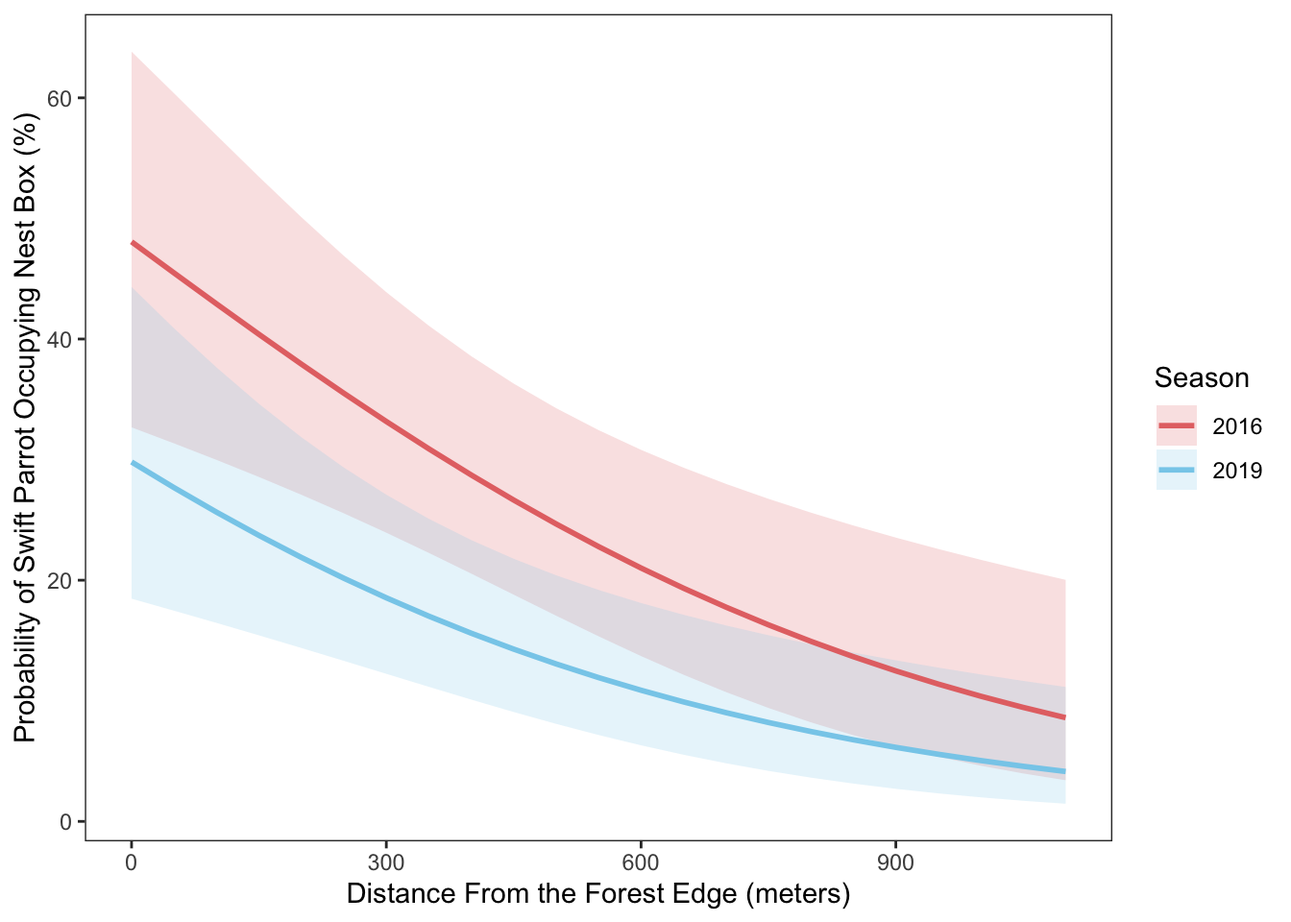
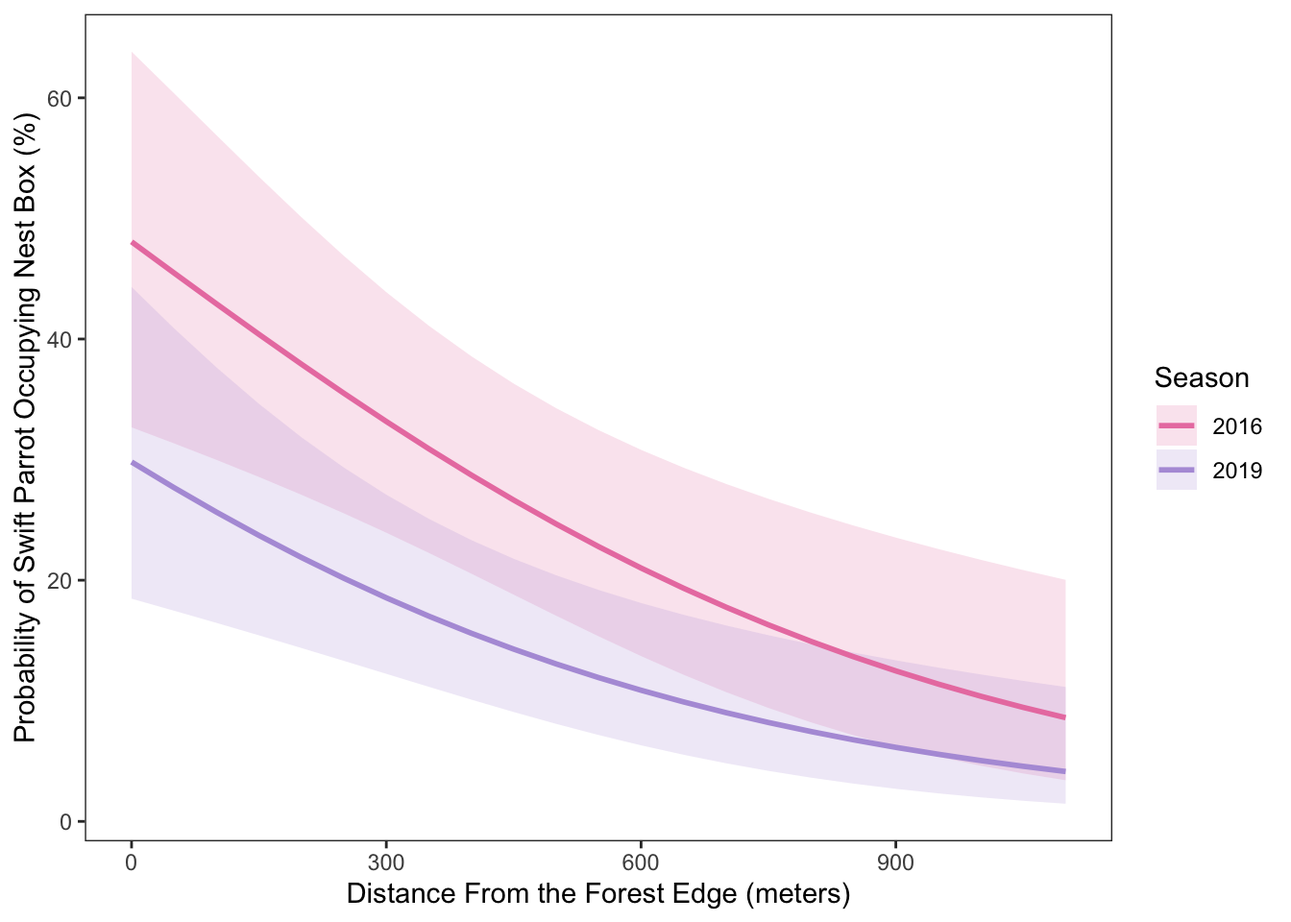
final tweaks. this should be close to the final product.

diff --git a/Code/Final.html b/Code/Final.html
@@ -6,7 +6,7 @@
 
 <meta name="viewport" content="width=device-width, initial-scale=1.0, user-scalable=yes">
 
-<meta name="dcterms.date" content="2025-06-09">
+<meta name="dcterms.date" content="2025-06-11">
 
 <title>Final Assignment</title>
 <style>
@@ -102,7 +102,7 @@ pre > code.sourceCode > span > a:first-child::before { text-decoration: underlin
     <div>
     <div class="quarto-title-meta-heading">Published</div>
     <div class="quarto-title-meta-contents">
-      <p class="date">June 9, 2025</p>
+      <p class="date">June 11, 2025</p>
     </div>
   </div>
   
@@ -116,19 +116,17 @@ pre > code.sourceCode > span > a:first-child::before { text-decoration: underlin
 
 <p>https://github.com/liamgilson18/ENVS-193DS_spring-2025_final</p>
 <div class="cell">
-<div class="sourceCode cell-code" id="cb1"><pre class="sourceCode r code-with-copy"><code class="sourceCode r"><span id="cb1-1"><a href="#cb1-1" aria-hidden="true" tabindex="-1"></a><span class="co">#read in code chunk</span></span>
-<span id="cb1-2"><a href="#cb1-2" aria-hidden="true" tabindex="-1"></a></span>
-<span id="cb1-3"><a href="#cb1-3" aria-hidden="true" tabindex="-1"></a><span class="fu">library</span>(tidyverse) <span class="co">#load in tidyverse</span></span>
-<span id="cb1-4"><a href="#cb1-4" aria-hidden="true" tabindex="-1"></a><span class="fu">library</span>(dplyr)    <span class="co"># load in dplyr</span></span>
-<span id="cb1-5"><a href="#cb1-5" aria-hidden="true" tabindex="-1"></a><span class="fu">library</span>(lubridate)  <span class="co">#load in lubridate</span></span>
-<span id="cb1-6"><a href="#cb1-6" aria-hidden="true" tabindex="-1"></a><span class="fu">library</span>(forcats)  <span class="co"># load in forcats</span></span>
-<span id="cb1-7"><a href="#cb1-7" aria-hidden="true" tabindex="-1"></a><span class="fu">library</span>(tibble)   <span class="co"># load in tibble</span></span>
-<span id="cb1-8"><a href="#cb1-8" aria-hidden="true" tabindex="-1"></a><span class="fu">library</span>(DHARMa)</span>
-<span id="cb1-9"><a href="#cb1-9" aria-hidden="true" tabindex="-1"></a><span class="fu">library</span>(MuMIn)</span>
-<span id="cb1-10"><a href="#cb1-10" aria-hidden="true" tabindex="-1"></a><span class="fu">library</span>(ggeffects)</span>
-<span id="cb1-11"><a href="#cb1-11" aria-hidden="true" tabindex="-1"></a><span class="fu">library</span>(janitor)</span>
-<span id="cb1-12"><a href="#cb1-12" aria-hidden="true" tabindex="-1"></a>sst <span class="ot">&lt;-</span> <span class="fu">read.csv</span>(here<span class="sc">::</span><span class="fu">here</span>(<span class="st">"data"</span>, <span class="st">"SST_update2023.csv"</span>)) <span class="co">#create object sst from data, problem 2</span></span>
-<span id="cb1-13"><a href="#cb1-13" aria-hidden="true" tabindex="-1"></a>nested_boxes <span class="ot">&lt;-</span> <span class="fu">read.csv</span>(here<span class="sc">::</span><span class="fu">here</span>(<span class="st">"data"</span>, <span class="st">"occdist.csv"</span>))</span></code><button title="Copy to Clipboard" class="code-copy-button"><i class="bi"></i></button></pre></div>
+<div class="sourceCode cell-code" id="cb1"><pre class="sourceCode r code-with-copy"><code class="sourceCode r"><span id="cb1-1"><a href="#cb1-1" aria-hidden="true" tabindex="-1"></a><span class="fu">library</span>(tidyverse) <span class="co">#load in tidyverse</span></span>
+<span id="cb1-2"><a href="#cb1-2" aria-hidden="true" tabindex="-1"></a><span class="fu">library</span>(dplyr)    <span class="co"># load in dplyr</span></span>
+<span id="cb1-3"><a href="#cb1-3" aria-hidden="true" tabindex="-1"></a><span class="fu">library</span>(lubridate)  <span class="co">#load in lubridate</span></span>
+<span id="cb1-4"><a href="#cb1-4" aria-hidden="true" tabindex="-1"></a><span class="fu">library</span>(forcats)  <span class="co"># load in forcats</span></span>
+<span id="cb1-5"><a href="#cb1-5" aria-hidden="true" tabindex="-1"></a><span class="fu">library</span>(tibble)   <span class="co"># load in tibble</span></span>
+<span id="cb1-6"><a href="#cb1-6" aria-hidden="true" tabindex="-1"></a><span class="fu">library</span>(DHARMa) <span class="co">#load in DHARMa</span></span>
+<span id="cb1-7"><a href="#cb1-7" aria-hidden="true" tabindex="-1"></a><span class="fu">library</span>(MuMIn) <span class="co">#load in MuMIn</span></span>
+<span id="cb1-8"><a href="#cb1-8" aria-hidden="true" tabindex="-1"></a><span class="fu">library</span>(ggeffects) <span class="co">#load in ggeffects</span></span>
+<span id="cb1-9"><a href="#cb1-9" aria-hidden="true" tabindex="-1"></a><span class="fu">library</span>(janitor) <span class="co">#load in janitor</span></span>
+<span id="cb1-10"><a href="#cb1-10" aria-hidden="true" tabindex="-1"></a>sst <span class="ot">&lt;-</span> <span class="fu">read.csv</span>(here<span class="sc">::</span><span class="fu">here</span>(<span class="st">"data"</span>, <span class="st">"SST_update2023.csv"</span>)) <span class="co">#create initial object sst from data, problem 2</span></span>
+<span id="cb1-11"><a href="#cb1-11" aria-hidden="true" tabindex="-1"></a>nested_boxes <span class="ot">&lt;-</span> <span class="fu">read.csv</span>(here<span class="sc">::</span><span class="fu">here</span>(<span class="st">"data"</span>, <span class="st">"occdist.csv"</span>)) <span class="co">#create initial object nested boxesfor problem 3</span></span></code><button title="Copy to Clipboard" class="code-copy-button"><i class="bi"></i></button></pre></div>
 </div>
 <section id="problem-1" class="level1">
 <h1>Problem 1</h1>
@@ -143,7 +141,7 @@ pre > code.sourceCode > span > a:first-child::before { text-decoration: underlin
 <p>Another additional test what should be included is an effect size test (n<sup>2</sup>), which will explain how much the grouping variable explains the response. An effect size will tell us, for example, if most of the variance is coming from a specific source, such as fertilizer.</p>
 </section>
 <section id="c.-suggestions-for-rewriting" class="level4">
-<h4 class="anchored" data-anchor-id="c.-suggestions-for-rewriting">c.&nbsp;suggestions for rewriting</h4>
+<h4 class="anchored" data-anchor-id="c.-suggestions-for-rewriting">c.&nbsp;Suggestions for rewriting</h4>
 <p>Part 1:</p>
 <p>We found a [(strong, medium, weak) (negative,positive) correlation between headwater (km) and annual total nitrogen load (kg year<sup>-1</sup>) using Pearsons correlation test (Pearsons r= correlation coefficient), such that the distance from headwaters significantly predicts the nitrogen load. (t= t-value, df= degrees of freedom, p=0.03, 95% confidence interval: [lower bound, upper bound], r=correlation coffiecient)</p>
 <p>Part 2:</p>
@@ -171,11 +169,11 @@ pre > code.sourceCode > span > a:first-child::before { text-decoration: underlin
 <pre><code># A tibble: 5 × 3
   year  month mean_monthly_sst
   &lt;fct&gt; &lt;ord&gt;            &lt;dbl&gt;
-1 1992  Nov               17.2
-2 1990  Sep               17.6
-3 1989  Nov               16.1
-4 1996  Oct               16.2
-5 1989  Jul               16.1</code></pre>
+1 2015  Jul               18.4
+2 2022  Jul               17.0
+3 2013  Apr               13.2
+4 2023  Jan               14.0
+5 2001  Dec               13.2</code></pre>
 </div>
 <div class="sourceCode cell-code" id="cb4"><pre class="sourceCode r code-with-copy"><code class="sourceCode r"><span id="cb4-1"><a href="#cb4-1" aria-hidden="true" tabindex="-1"></a><span class="fu">str</span>(sst_clean) <span class="co"># Show structure of the tibble in</span></span></code><button title="Copy to Clipboard" class="code-copy-button"><i class="bi"></i></button></pre></div>
 <div class="cell-output cell-output-stdout">
@@ -227,11 +225,6 @@ pre > code.sourceCode > span > a:first-child::before { text-decoration: underlin
 <span id="cb6-36"><a href="#cb6-36" aria-hidden="true" tabindex="-1"></a>  ) <span class="sc">+</span></span>
 <span id="cb6-37"><a href="#cb6-37" aria-hidden="true" tabindex="-1"></a>  <span class="fu">scale_color_manual</span>(<span class="at">values =</span> blue_gradient) <span class="sc">+</span>  <span class="co"># gradient</span></span>
 <span id="cb6-38"><a href="#cb6-38" aria-hidden="true" tabindex="-1"></a>  <span class="fu">coord_cartesian</span>(<span class="at">clip =</span> <span class="st">"off"</span>)</span></code><button title="Copy to Clipboard" class="code-copy-button"><i class="bi"></i></button></pre></div>
-<div class="cell-output cell-output-stderr">
-<pre><code>Warning: A numeric `legend.position` argument in `theme()` was deprecated in ggplot2
-3.5.0.
-ℹ Please use the `legend.position.inside` argument of `theme()` instead.</code></pre>
-</div>
 <div class="cell-output-display">
 <div>
 <figure class="figure">
@@ -298,32 +291,32 @@ pre > code.sourceCode > span > a:first-child::before { text-decoration: underlin
 <section id="e.-run-the-models" class="level4">
 <h4 class="anchored" data-anchor-id="e.-run-the-models">e. Run the Models</h4>
 <div class="cell">
-<div class="sourceCode cell-code" id="cb8"><pre class="sourceCode r code-with-copy"><code class="sourceCode r"><span id="cb8-1"><a href="#cb8-1" aria-hidden="true" tabindex="-1"></a>clean_nest_boxes <span class="ot">&lt;-</span> nested_boxes <span class="sc">|&gt;</span> <span class="co">#cleaning nested_boxes</span></span>
-<span id="cb8-2"><a href="#cb8-2" aria-hidden="true" tabindex="-1"></a>  <span class="fu">clean_names</span>() <span class="sc">|&gt;</span> <span class="co"># clean column names</span></span>
-<span id="cb8-3"><a href="#cb8-3" aria-hidden="true" tabindex="-1"></a>  <span class="fu">select</span>(sp, edge_distance, season) <span class="sc">|&gt;</span> <span class="co"># show columns </span></span>
-<span id="cb8-4"><a href="#cb8-4" aria-hidden="true" tabindex="-1"></a>  <span class="fu">mutate</span>(<span class="at">season =</span> <span class="fu">as.factor</span>(season)) <span class="co"># make season a factor and not numeric</span></span>
-<span id="cb8-5"><a href="#cb8-5" aria-hidden="true" tabindex="-1"></a></span>
-<span id="cb8-6"><a href="#cb8-6" aria-hidden="true" tabindex="-1"></a>model1 <span class="ot">&lt;-</span> <span class="fu">glm</span>(sp <span class="sc">~</span> <span class="dv">1</span>, <span class="co"># null model, formula with no predictors</span></span>
-<span id="cb8-7"><a href="#cb8-7" aria-hidden="true" tabindex="-1"></a>             <span class="at">data =</span> clean_nest_boxes, <span class="co"># use hidden cleaned data frame</span></span>
-<span id="cb8-8"><a href="#cb8-8" aria-hidden="true" tabindex="-1"></a>             <span class="at">family =</span> binomial) <span class="co"># swift parrot occupancy is binary</span></span>
-<span id="cb8-9"><a href="#cb8-9" aria-hidden="true" tabindex="-1"></a></span>
-<span id="cb8-10"><a href="#cb8-10" aria-hidden="true" tabindex="-1"></a>model2 <span class="ot">&lt;-</span> <span class="fu">glm</span>(sp <span class="sc">~</span> edge_distance <span class="sc">+</span> season, <span class="co">#saturated model, use both predictors</span></span>
-<span id="cb8-11"><a href="#cb8-11" aria-hidden="true" tabindex="-1"></a>              <span class="at">data =</span> clean_nest_boxes, <span class="co"># use cleaned data frame</span></span>
-<span id="cb8-12"><a href="#cb8-12" aria-hidden="true" tabindex="-1"></a>              <span class="at">family =</span> binomial) <span class="co"># swift parrot occupancy is binary</span></span>
-<span id="cb8-13"><a href="#cb8-13" aria-hidden="true" tabindex="-1"></a></span>
-<span id="cb8-14"><a href="#cb8-14" aria-hidden="true" tabindex="-1"></a>model3 <span class="ot">&lt;-</span> <span class="fu">glm</span>(sp <span class="sc">~</span> season, <span class="co"># use only season predictor</span></span>
-<span id="cb8-15"><a href="#cb8-15" aria-hidden="true" tabindex="-1"></a>              <span class="at">data =</span> clean_nest_boxes, <span class="co"># use cleaned data frame</span></span>
-<span id="cb8-16"><a href="#cb8-16" aria-hidden="true" tabindex="-1"></a>              <span class="at">family =</span> binomial) <span class="co"># swift parrot occupancy is binary</span></span>
-<span id="cb8-17"><a href="#cb8-17" aria-hidden="true" tabindex="-1"></a></span>
-<span id="cb8-18"><a href="#cb8-18" aria-hidden="true" tabindex="-1"></a>model4 <span class="ot">&lt;-</span> <span class="fu">glm</span>(sp <span class="sc">~</span> edge_distance, <span class="co"># use only edge distance predictor</span></span>
-<span id="cb8-19"><a href="#cb8-19" aria-hidden="true" tabindex="-1"></a>              <span class="at">data =</span> clean_nest_boxes, <span class="co"># use cleaned data frame</span></span>
-<span id="cb8-20"><a href="#cb8-20" aria-hidden="true" tabindex="-1"></a>              <span class="at">family =</span> binomial) <span class="co"># swift parrot occupancy is binary~ season, family = binomial, data = nested_boxes)                # season only model</span></span></code><button title="Copy to Clipboard" class="code-copy-button"><i class="bi"></i></button></pre></div>
+<div class="sourceCode cell-code" id="cb7"><pre class="sourceCode r code-with-copy"><code class="sourceCode r"><span id="cb7-1"><a href="#cb7-1" aria-hidden="true" tabindex="-1"></a>clean_nest_boxes <span class="ot">&lt;-</span> nested_boxes <span class="sc">|&gt;</span> <span class="co">#cleaning nested_boxes</span></span>
+<span id="cb7-2"><a href="#cb7-2" aria-hidden="true" tabindex="-1"></a>  <span class="fu">clean_names</span>() <span class="sc">|&gt;</span> <span class="co"># clean column names</span></span>
+<span id="cb7-3"><a href="#cb7-3" aria-hidden="true" tabindex="-1"></a>  <span class="fu">select</span>(sp, edge_distance, season) <span class="sc">|&gt;</span> <span class="co"># show columns </span></span>
+<span id="cb7-4"><a href="#cb7-4" aria-hidden="true" tabindex="-1"></a>  <span class="fu">mutate</span>(<span class="at">season =</span> <span class="fu">as.factor</span>(season)) <span class="co"># make season a factor and not numeric</span></span>
+<span id="cb7-5"><a href="#cb7-5" aria-hidden="true" tabindex="-1"></a></span>
+<span id="cb7-6"><a href="#cb7-6" aria-hidden="true" tabindex="-1"></a>model1 <span class="ot">&lt;-</span> <span class="fu">glm</span>(sp <span class="sc">~</span> <span class="dv">1</span>, <span class="co"># null model, formula with no predictors</span></span>
+<span id="cb7-7"><a href="#cb7-7" aria-hidden="true" tabindex="-1"></a>             <span class="at">data =</span> clean_nest_boxes, <span class="co"># use hidden cleaned data frame</span></span>
+<span id="cb7-8"><a href="#cb7-8" aria-hidden="true" tabindex="-1"></a>             <span class="at">family =</span> binomial) <span class="co"># swift parrot occupancy is binary</span></span>
+<span id="cb7-9"><a href="#cb7-9" aria-hidden="true" tabindex="-1"></a></span>
+<span id="cb7-10"><a href="#cb7-10" aria-hidden="true" tabindex="-1"></a>model2 <span class="ot">&lt;-</span> <span class="fu">glm</span>(sp <span class="sc">~</span> edge_distance <span class="sc">+</span> season, <span class="co">#saturated model, use both predictors</span></span>
+<span id="cb7-11"><a href="#cb7-11" aria-hidden="true" tabindex="-1"></a>              <span class="at">data =</span> clean_nest_boxes, <span class="co"># use cleaned data frame</span></span>
+<span id="cb7-12"><a href="#cb7-12" aria-hidden="true" tabindex="-1"></a>              <span class="at">family =</span> binomial) <span class="co"># swift parrot occupancy is binary</span></span>
+<span id="cb7-13"><a href="#cb7-13" aria-hidden="true" tabindex="-1"></a></span>
+<span id="cb7-14"><a href="#cb7-14" aria-hidden="true" tabindex="-1"></a>model3 <span class="ot">&lt;-</span> <span class="fu">glm</span>(sp <span class="sc">~</span> season, <span class="co"># use only season predictor</span></span>
+<span id="cb7-15"><a href="#cb7-15" aria-hidden="true" tabindex="-1"></a>              <span class="at">data =</span> clean_nest_boxes, <span class="co"># use cleaned data frame</span></span>
+<span id="cb7-16"><a href="#cb7-16" aria-hidden="true" tabindex="-1"></a>              <span class="at">family =</span> binomial) <span class="co"># swift parrot occupancy is binary</span></span>
+<span id="cb7-17"><a href="#cb7-17" aria-hidden="true" tabindex="-1"></a></span>
+<span id="cb7-18"><a href="#cb7-18" aria-hidden="true" tabindex="-1"></a>model4 <span class="ot">&lt;-</span> <span class="fu">glm</span>(sp <span class="sc">~</span> edge_distance, <span class="co"># use only edge distance predictor</span></span>
+<span id="cb7-19"><a href="#cb7-19" aria-hidden="true" tabindex="-1"></a>              <span class="at">data =</span> clean_nest_boxes, <span class="co"># use cleaned data frame</span></span>
+<span id="cb7-20"><a href="#cb7-20" aria-hidden="true" tabindex="-1"></a>              <span class="at">family =</span> binomial) <span class="co"># swift parrot occupancy is binary~ season, family = binomial, data = nested_boxes)                # season only model</span></span></code><button title="Copy to Clipboard" class="code-copy-button"><i class="bi"></i></button></pre></div>
 </div>
 </section>
 <section id="f.-check-the-diagnostics" class="level4">
 <h4 class="anchored" data-anchor-id="f.-check-the-diagnostics">f.&nbsp;Check the Diagnostics</h4>
 <div class="cell">
-<div class="sourceCode cell-code" id="cb9"><pre class="sourceCode r code-with-copy"><code class="sourceCode r"><span id="cb9-1"><a href="#cb9-1" aria-hidden="true" tabindex="-1"></a><span class="fu">plot</span>(<span class="fu">simulateResiduals</span>(model1)) <span class="co"># diagnostics for null model</span></span></code><button title="Copy to Clipboard" class="code-copy-button"><i class="bi"></i></button></pre></div>
+<div class="sourceCode cell-code" id="cb8"><pre class="sourceCode r code-with-copy"><code class="sourceCode r"><span id="cb8-1"><a href="#cb8-1" aria-hidden="true" tabindex="-1"></a><span class="fu">plot</span>(<span class="fu">simulateResiduals</span>(model1)) <span class="co"># diagnostics for null model</span></span></code><button title="Copy to Clipboard" class="code-copy-button"><i class="bi"></i></button></pre></div>
 <div class="cell-output-display">
 <div>
 <figure class="figure">
@@ -331,7 +324,7 @@ pre > code.sourceCode > span > a:first-child::before { text-decoration: underlin
 </figure>
 </div>
 </div>
-<div class="sourceCode cell-code" id="cb10"><pre class="sourceCode r code-with-copy"><code class="sourceCode r"><span id="cb10-1"><a href="#cb10-1" aria-hidden="true" tabindex="-1"></a><span class="fu">plot</span>(<span class="fu">simulateResiduals</span>(model2)) <span class="co"># diagnostics for saturated model</span></span></code><button title="Copy to Clipboard" class="code-copy-button"><i class="bi"></i></button></pre></div>
+<div class="sourceCode cell-code" id="cb9"><pre class="sourceCode r code-with-copy"><code class="sourceCode r"><span id="cb9-1"><a href="#cb9-1" aria-hidden="true" tabindex="-1"></a><span class="fu">plot</span>(<span class="fu">simulateResiduals</span>(model2)) <span class="co"># diagnostics for saturated model</span></span></code><button title="Copy to Clipboard" class="code-copy-button"><i class="bi"></i></button></pre></div>
 <div class="cell-output-display">
 <div>
 <figure class="figure">
@@ -339,7 +332,7 @@ pre > code.sourceCode > span > a:first-child::before { text-decoration: underlin
 </figure>
 </div>
 </div>
-<div class="sourceCode cell-code" id="cb11"><pre class="sourceCode r code-with-copy"><code class="sourceCode r"><span id="cb11-1"><a href="#cb11-1" aria-hidden="true" tabindex="-1"></a><span class="fu">plot</span>(<span class="fu">simulateResiduals</span>(model3)) <span class="co"># diagnostics for season predictor only model</span></span></code><button title="Copy to Clipboard" class="code-copy-button"><i class="bi"></i></button></pre></div>
+<div class="sourceCode cell-code" id="cb10"><pre class="sourceCode r code-with-copy"><code class="sourceCode r"><span id="cb10-1"><a href="#cb10-1" aria-hidden="true" tabindex="-1"></a><span class="fu">plot</span>(<span class="fu">simulateResiduals</span>(model3)) <span class="co"># diagnostics for season predictor only model</span></span></code><button title="Copy to Clipboard" class="code-copy-button"><i class="bi"></i></button></pre></div>
 <div class="cell-output-display">
 <div>
 <figure class="figure">
@@ -347,7 +340,7 @@ pre > code.sourceCode > span > a:first-child::before { text-decoration: underlin
 </figure>
 </div>
 </div>
-<div class="sourceCode cell-code" id="cb12"><pre class="sourceCode r code-with-copy"><code class="sourceCode r"><span id="cb12-1"><a href="#cb12-1" aria-hidden="true" tabindex="-1"></a><span class="fu">plot</span>(<span class="fu">simulateResiduals</span>(model4)) <span class="co"># diagnostics for forest distance only model</span></span></code><button title="Copy to Clipboard" class="code-copy-button"><i class="bi"></i></button></pre></div>
+<div class="sourceCode cell-code" id="cb11"><pre class="sourceCode r code-with-copy"><code class="sourceCode r"><span id="cb11-1"><a href="#cb11-1" aria-hidden="true" tabindex="-1"></a><span class="fu">plot</span>(<span class="fu">simulateResiduals</span>(model4)) <span class="co"># diagnostics for forest distance only model</span></span></code><button title="Copy to Clipboard" class="code-copy-button"><i class="bi"></i></button></pre></div>
 <div class="cell-output-display">
 <div>
 <figure class="figure">
@@ -360,9 +353,9 @@ pre > code.sourceCode > span > a:first-child::before { text-decoration: underlin
 <section id="g.-select-the-best-model" class="level4">
 <h4 class="anchored" data-anchor-id="g.-select-the-best-model">g. Select the Best Model</h4>
 <div class="cell">
-<div class="sourceCode cell-code" id="cb13"><pre class="sourceCode r code-with-copy"><code class="sourceCode r"><span id="cb13-1"><a href="#cb13-1" aria-hidden="true" tabindex="-1"></a>model_selection <span class="ot">&lt;-</span> <span class="fu">AICc</span>(model1, model2, model3, model4) <span class="sc">|&gt;</span> <span class="co"># Compare AIC values</span></span>
-<span id="cb13-2"><a href="#cb13-2" aria-hidden="true" tabindex="-1"></a><span class="fu">arrange</span>(AICc) <span class="co">#arrange them in descending order</span></span>
-<span id="cb13-3"><a href="#cb13-3" aria-hidden="true" tabindex="-1"></a>model_selection<span class="co">#View in terminal</span></span></code><button title="Copy to Clipboard" class="code-copy-button"><i class="bi"></i></button></pre></div>
+<div class="sourceCode cell-code" id="cb12"><pre class="sourceCode r code-with-copy"><code class="sourceCode r"><span id="cb12-1"><a href="#cb12-1" aria-hidden="true" tabindex="-1"></a>model_selection <span class="ot">&lt;-</span> <span class="fu">AICc</span>(model1, model2, model3, model4) <span class="sc">|&gt;</span> <span class="co"># Compare AIC values</span></span>
+<span id="cb12-2"><a href="#cb12-2" aria-hidden="true" tabindex="-1"></a><span class="fu">arrange</span>(AICc) <span class="co">#arrange them in descending order</span></span>
+<span id="cb12-3"><a href="#cb12-3" aria-hidden="true" tabindex="-1"></a>model_selection<span class="co">#View in terminal</span></span></code><button title="Copy to Clipboard" class="code-copy-button"><i class="bi"></i></button></pre></div>
 <div class="cell-output cell-output-stdout">
 <pre><code>       df     AICc
 model2  3 226.3133
@@ -376,48 +369,40 @@ model1  1 238.8318</code></pre>
 <section id="h.-visualizing-the-model-predictions" class="level4">
 <h4 class="anchored" data-anchor-id="h.-visualizing-the-model-predictions">h. Visualizing the Model Predictions</h4>
 <div class="cell">
-<div class="sourceCode cell-code" id="cb15"><pre class="sourceCode r code-with-copy"><code class="sourceCode r"><span id="cb15-1"><a href="#cb15-1" aria-hidden="true" tabindex="-1"></a>sp_preds <span class="ot">&lt;-</span> <span class="fu">ggpredict</span>( <span class="co">#running ggpredict</span></span>
-<span id="cb15-2"><a href="#cb15-2" aria-hidden="true" tabindex="-1"></a>  model2,     <span class="co"># choose which model to use</span></span>
-<span id="cb15-3"><a href="#cb15-3" aria-hidden="true" tabindex="-1"></a>  <span class="at">terms =</span> <span class="fu">c</span>(<span class="st">"edge_distance"</span>,<span class="st">"season"</span>)) <span class="co"># select both distance and season as predictors</span></span></code><button title="Copy to Clipboard" class="code-copy-button"><i class="bi"></i></button></pre></div>
-<div class="cell-output cell-output-stderr">
-<pre><code>Data were 'prettified'. Consider using `terms="edge_distance [all]"` to
-  get smooth plots.</code></pre>
-</div>
-<div class="sourceCode cell-code" id="cb17"><pre class="sourceCode r code-with-copy"><code class="sourceCode r"><span id="cb17-1"><a href="#cb17-1" aria-hidden="true" tabindex="-1"></a>sp_preds_clean <span class="ot">&lt;-</span> sp_preds <span class="sc">|&gt;</span> <span class="co">#new object sp_preds_clean from sp_preds</span></span>
-<span id="cb17-2"><a href="#cb17-2" aria-hidden="true" tabindex="-1"></a>  <span class="fu">clean_names</span>() <span class="sc">|&gt;</span> <span class="co"># clean column names</span></span>
-<span id="cb17-3"><a href="#cb17-3" aria-hidden="true" tabindex="-1"></a>  <span class="fu">rename</span>(<span class="at">season =</span> group) <span class="co">#reneame </span></span>
-<span id="cb17-4"><a href="#cb17-4" aria-hidden="true" tabindex="-1"></a></span>
-<span id="cb17-5"><a href="#cb17-5" aria-hidden="true" tabindex="-1"></a><span class="fu">ggplot</span>(sp_preds_clean, <span class="fu">aes</span>(<span class="at">x =</span> x,   <span class="co"># create plot and define axis as probability and distance from forest edge</span></span>
-<span id="cb17-6"><a href="#cb17-6" aria-hidden="true" tabindex="-1"></a>                     <span class="at">y =</span> predicted <span class="sc">*</span> <span class="dv">100</span>,  <span class="co"># y axis is predicted probability x 100 for percentage</span></span>
-<span id="cb17-7"><a href="#cb17-7" aria-hidden="true" tabindex="-1"></a>                     <span class="at">color =</span> season, <span class="co"># color by year</span></span>
-<span id="cb17-8"><a href="#cb17-8" aria-hidden="true" tabindex="-1"></a>                     <span class="at">fill =</span> season)) <span class="sc">+</span> <span class="co"># fill color by year</span></span>
-<span id="cb17-9"><a href="#cb17-9" aria-hidden="true" tabindex="-1"></a>   <span class="fu">geom_ribbon</span>(<span class="at">alpha =</span> <span class="fl">0.2</span>, <span class="at">color =</span> <span class="cn">NA</span>,</span>
-<span id="cb17-10"><a href="#cb17-10" aria-hidden="true" tabindex="-1"></a>              <span class="fu">aes</span>(<span class="at">ymin =</span> conf_low <span class="sc">*</span> <span class="dv">100</span>, <span class="co"># confidence interval boundary, adjusted for %</span></span>
-<span id="cb17-11"><a href="#cb17-11" aria-hidden="true" tabindex="-1"></a>                  <span class="at">ymax =</span> conf_high <span class="sc">*</span> <span class="dv">100</span>, <span class="co"># confidence interval boundary, adjusted for %</span></span>
-<span id="cb17-12"><a href="#cb17-12" aria-hidden="true" tabindex="-1"></a>                  <span class="at">fill =</span> season</span>
-<span id="cb17-13"><a href="#cb17-13" aria-hidden="true" tabindex="-1"></a>                  )) <span class="sc">+</span></span>
-<span id="cb17-14"><a href="#cb17-14" aria-hidden="true" tabindex="-1"></a>  <span class="fu">geom_line</span>(<span class="at">size =</span> <span class="dv">1</span>)  <span class="sc">+</span> <span class="co"># add line for predictions</span></span>
-<span id="cb17-15"><a href="#cb17-15" aria-hidden="true" tabindex="-1"></a>   <span class="fu">labs</span>(</span>
-<span id="cb17-16"><a href="#cb17-16" aria-hidden="true" tabindex="-1"></a>     <span class="at">x =</span> <span class="st">"Distance From the Forest Edge (meters)"</span>, <span class="co"># set x axis</span></span>
-<span id="cb17-17"><a href="#cb17-17" aria-hidden="true" tabindex="-1"></a>     <span class="at">y =</span> <span class="st">"Probability of Swift Parrot Occupying Nest Box (%)"</span>, <span class="co"># set y axis</span></span>
-<span id="cb17-18"><a href="#cb17-18" aria-hidden="true" tabindex="-1"></a>     <span class="at">color =</span> <span class="st">"Season"</span>, <span class="co"># set legend title</span></span>
-<span id="cb17-19"><a href="#cb17-19" aria-hidden="true" tabindex="-1"></a>     <span class="at">fill =</span> <span class="st">"Season"</span> <span class="co"># set legend title</span></span>
-<span id="cb17-20"><a href="#cb17-20" aria-hidden="true" tabindex="-1"></a>   ) <span class="sc">+</span></span>
-<span id="cb17-21"><a href="#cb17-21" aria-hidden="true" tabindex="-1"></a>   <span class="fu">scale_color_manual</span>(<span class="at">values =</span> <span class="fu">c</span>(  <span class="co"># set colors for lines and points</span></span>
-<span id="cb17-22"><a href="#cb17-22" aria-hidden="true" tabindex="-1"></a>    <span class="st">"2016"</span> <span class="ot">=</span> <span class="st">"#E57373"</span>,     <span class="co">#light red</span></span>
-<span id="cb17-23"><a href="#cb17-23" aria-hidden="true" tabindex="-1"></a>    <span class="st">"2019"</span> <span class="ot">=</span> <span class="st">"#87CEEB"</span>)) <span class="sc">+</span>  <span class="co">#light blue</span></span>
-<span id="cb17-24"><a href="#cb17-24" aria-hidden="true" tabindex="-1"></a>   <span class="fu">scale_fill_manual</span>(<span class="at">values =</span> <span class="fu">c</span>(  <span class="co"># set colors for CI ribbon</span></span>
-<span id="cb17-25"><a href="#cb17-25" aria-hidden="true" tabindex="-1"></a>    <span class="st">"2016"</span> <span class="ot">=</span> <span class="st">"#E57373"</span>,     <span class="co">#light red</span></span>
-<span id="cb17-26"><a href="#cb17-26" aria-hidden="true" tabindex="-1"></a>    <span class="st">"2019"</span> <span class="ot">=</span> <span class="st">"#87CEEB"</span>)) <span class="sc">+</span>  <span class="co">#light blue</span></span>
-<span id="cb17-27"><a href="#cb17-27" aria-hidden="true" tabindex="-1"></a>   <span class="fu">theme_bw</span>() <span class="sc">+</span> <span class="co"># set theme</span></span>
-<span id="cb17-28"><a href="#cb17-28" aria-hidden="true" tabindex="-1"></a>   <span class="fu">theme</span>(  <span class="co"># remove background and panel grids</span></span>
-<span id="cb17-29"><a href="#cb17-29" aria-hidden="true" tabindex="-1"></a>     <span class="at">panel.background =</span> <span class="fu">element_blank</span>(),</span>
-<span id="cb17-30"><a href="#cb17-30" aria-hidden="true" tabindex="-1"></a>     <span class="at">panel.grid =</span> <span class="fu">element_blank</span>()</span>
-<span id="cb17-31"><a href="#cb17-31" aria-hidden="true" tabindex="-1"></a>   )</span></code><button title="Copy to Clipboard" class="code-copy-button"><i class="bi"></i></button></pre></div>
-<div class="cell-output cell-output-stderr">
-<pre><code>Warning: Using `size` aesthetic for lines was deprecated in ggplot2 3.4.0.
-ℹ Please use `linewidth` instead.</code></pre>
-</div>
+<div class="sourceCode cell-code" id="cb14"><pre class="sourceCode r code-with-copy"><code class="sourceCode r"><span id="cb14-1"><a href="#cb14-1" aria-hidden="true" tabindex="-1"></a>sp_preds <span class="ot">&lt;-</span> <span class="fu">ggpredict</span>( <span class="co">#running ggpredict</span></span>
+<span id="cb14-2"><a href="#cb14-2" aria-hidden="true" tabindex="-1"></a>  model2,     <span class="co"># choose which model to use</span></span>
+<span id="cb14-3"><a href="#cb14-3" aria-hidden="true" tabindex="-1"></a>  <span class="at">terms =</span> <span class="fu">c</span>(<span class="st">"edge_distance"</span>,<span class="st">"season"</span>)) <span class="co"># select both distance and season as predictors</span></span>
+<span id="cb14-4"><a href="#cb14-4" aria-hidden="true" tabindex="-1"></a>sp_preds_clean <span class="ot">&lt;-</span> sp_preds <span class="sc">|&gt;</span> <span class="co">#new object sp_preds_clean from sp_preds</span></span>
+<span id="cb14-5"><a href="#cb14-5" aria-hidden="true" tabindex="-1"></a>  <span class="fu">clean_names</span>() <span class="sc">|&gt;</span> <span class="co"># clean column names</span></span>
+<span id="cb14-6"><a href="#cb14-6" aria-hidden="true" tabindex="-1"></a>  <span class="fu">rename</span>(<span class="at">season =</span> group) <span class="co">#reneame </span></span>
+<span id="cb14-7"><a href="#cb14-7" aria-hidden="true" tabindex="-1"></a></span>
+<span id="cb14-8"><a href="#cb14-8" aria-hidden="true" tabindex="-1"></a><span class="fu">ggplot</span>(sp_preds_clean, <span class="fu">aes</span>(<span class="at">x =</span> x,   <span class="co"># create plot and define axis as probability and distance from forest edge</span></span>
+<span id="cb14-9"><a href="#cb14-9" aria-hidden="true" tabindex="-1"></a>                     <span class="at">y =</span> predicted <span class="sc">*</span> <span class="dv">100</span>,  <span class="co"># y axis is predicted probability x 100 for percentage</span></span>
+<span id="cb14-10"><a href="#cb14-10" aria-hidden="true" tabindex="-1"></a>                     <span class="at">color =</span> season, <span class="co"># color by year</span></span>
+<span id="cb14-11"><a href="#cb14-11" aria-hidden="true" tabindex="-1"></a>                     <span class="at">fill =</span> season)) <span class="sc">+</span> <span class="co"># fill color by year</span></span>
+<span id="cb14-12"><a href="#cb14-12" aria-hidden="true" tabindex="-1"></a>   <span class="fu">geom_ribbon</span>(<span class="at">alpha =</span> <span class="fl">0.2</span>, <span class="at">color =</span> <span class="cn">NA</span>,</span>
+<span id="cb14-13"><a href="#cb14-13" aria-hidden="true" tabindex="-1"></a>              <span class="fu">aes</span>(<span class="at">ymin =</span> conf_low <span class="sc">*</span> <span class="dv">100</span>, <span class="co"># confidence interval boundary, adjusted for %</span></span>
+<span id="cb14-14"><a href="#cb14-14" aria-hidden="true" tabindex="-1"></a>                  <span class="at">ymax =</span> conf_high <span class="sc">*</span> <span class="dv">100</span>, <span class="co"># confidence interval boundary, adjusted for %</span></span>
+<span id="cb14-15"><a href="#cb14-15" aria-hidden="true" tabindex="-1"></a>                  <span class="at">fill =</span> season</span>
+<span id="cb14-16"><a href="#cb14-16" aria-hidden="true" tabindex="-1"></a>                  )) <span class="sc">+</span></span>
+<span id="cb14-17"><a href="#cb14-17" aria-hidden="true" tabindex="-1"></a>  <span class="fu">geom_line</span>(<span class="at">size =</span> <span class="dv">1</span>)  <span class="sc">+</span> <span class="co"># add line for predictions</span></span>
+<span id="cb14-18"><a href="#cb14-18" aria-hidden="true" tabindex="-1"></a>   <span class="fu">labs</span>(</span>
+<span id="cb14-19"><a href="#cb14-19" aria-hidden="true" tabindex="-1"></a>     <span class="at">x =</span> <span class="st">"Distance From the Forest Edge (meters)"</span>, <span class="co"># set x axis</span></span>
+<span id="cb14-20"><a href="#cb14-20" aria-hidden="true" tabindex="-1"></a>     <span class="at">y =</span> <span class="st">"Probability of Swift Parrot Occupying Nest Box (%)"</span>, <span class="co"># set y axis</span></span>
+<span id="cb14-21"><a href="#cb14-21" aria-hidden="true" tabindex="-1"></a>     <span class="at">color =</span> <span class="st">"Season"</span>, <span class="co"># set legend title</span></span>
+<span id="cb14-22"><a href="#cb14-22" aria-hidden="true" tabindex="-1"></a>     <span class="at">fill =</span> <span class="st">"Season"</span> <span class="co"># set legend title</span></span>
+<span id="cb14-23"><a href="#cb14-23" aria-hidden="true" tabindex="-1"></a>   ) <span class="sc">+</span></span>
+<span id="cb14-24"><a href="#cb14-24" aria-hidden="true" tabindex="-1"></a>   <span class="fu">scale_color_manual</span>(<span class="at">values =</span> <span class="fu">c</span>(  <span class="co"># set colors for lines and points</span></span>
+<span id="cb14-25"><a href="#cb14-25" aria-hidden="true" tabindex="-1"></a>    <span class="st">"2016"</span> <span class="ot">=</span> <span class="st">"#EA80B0"</span>,     <span class="co">#light pink</span></span>
+<span id="cb14-26"><a href="#cb14-26" aria-hidden="true" tabindex="-1"></a>    <span class="st">"2019"</span> <span class="ot">=</span> <span class="st">"#B39DDB"</span>)) <span class="sc">+</span>  <span class="co">#light purple</span></span>
+<span id="cb14-27"><a href="#cb14-27" aria-hidden="true" tabindex="-1"></a>   <span class="fu">scale_fill_manual</span>(<span class="at">values =</span> <span class="fu">c</span>(  <span class="co"># set colors for CI ribbon</span></span>
+<span id="cb14-28"><a href="#cb14-28" aria-hidden="true" tabindex="-1"></a>    <span class="st">"2016"</span> <span class="ot">=</span> <span class="st">"#EA80B0"</span>,     <span class="co">#light pink</span></span>
+<span id="cb14-29"><a href="#cb14-29" aria-hidden="true" tabindex="-1"></a>    <span class="st">"2019"</span> <span class="ot">=</span> <span class="st">"#B39DDB"</span>)) <span class="sc">+</span>  <span class="co">#light purple</span></span>
+<span id="cb14-30"><a href="#cb14-30" aria-hidden="true" tabindex="-1"></a>   <span class="fu">theme_bw</span>() <span class="sc">+</span> <span class="co"># set theme</span></span>
+<span id="cb14-31"><a href="#cb14-31" aria-hidden="true" tabindex="-1"></a>   <span class="fu">theme</span>(  <span class="co"># remove background and panel grids</span></span>
+<span id="cb14-32"><a href="#cb14-32" aria-hidden="true" tabindex="-1"></a>     <span class="at">panel.background =</span> <span class="fu">element_blank</span>(),</span>
+<span id="cb14-33"><a href="#cb14-33" aria-hidden="true" tabindex="-1"></a>     <span class="at">panel.grid =</span> <span class="fu">element_blank</span>()</span>
+<span id="cb14-34"><a href="#cb14-34" aria-hidden="true" tabindex="-1"></a>   )</span></code><button title="Copy to Clipboard" class="code-copy-button"><i class="bi"></i></button></pre></div>
 <div class="cell-output-display">
 <div>
 <figure class="figure">
@@ -429,16 +414,16 @@ model1  1 238.8318</code></pre>
 </section>
 <section id="i." class="level4">
 <h4 class="anchored" data-anchor-id="i.">i.</h4>
-<p>[Figure 1]: <strong>Swift Parrot box occupancy decreases with seasonal progression, and increases with distance from edge of forest</strong> - This figure illustrates the predicted probability of Swift Parrot nest box occupancy, based on a generalized linear model. The red and blue lines represent the predicted probability that a Parrot will occupy a box for the 2016 and 2019 seasons, respectively, across different distances from the forest edge. The shaded ribbons show a 95% confidence interval for each prediction line, that being red for 2016, blue for 2019. The plot reveals a negative, nonlinear relationship between distance from the forest edge and occupancy probability, with 2016 showing consistently higher predicted occupancy than 2019. Data from Stojanovic et al.&nbsp;(2021), Dryad: https://doi.org/10.5061/dryad.83bk3j9sb.</p>
+<p>[Figure 1]: <strong>Swift Parrot box occupancy decreases with seasonal progression, and increases with distance from edge of forest</strong> - This figure illustrates the predicted probability of Swift Parrot nest box occupancy, based on a generalized linear model. The pink and purple lines represent the predicted probability that a Parrot will occupy a box for the 2016 and 2019 seasons, respectively, across different distances from the forest edge. The shaded ribbons show a 95% confidence interval for each prediction line, that being pink for 2016, purple for 2019. The plot reveals a negative, nonlinear relationship between distance from the forest edge and occupancy probability, with 2016 showing consistently higher predicted occupancy than 2019. Data from Stojanovic et al.&nbsp;(2021), Dryad: https://doi.org/10.5061/dryad.83bk3j9sb.</p>
 </section>
 <section id="j.-calculate-model-predictions" class="level4">
 <h4 class="anchored" data-anchor-id="j.-calculate-model-predictions">j. Calculate Model Predictions</h4>
 <div class="cell">
-<div class="sourceCode cell-code" id="cb19"><pre class="sourceCode r code-with-copy"><code class="sourceCode r"><span id="cb19-1"><a href="#cb19-1" aria-hidden="true" tabindex="-1"></a>sp_preds_j <span class="ot">&lt;-</span> <span class="fu">ggpredict</span>(  <span class="co">#run predicted values</span></span>
-<span id="cb19-2"><a href="#cb19-2" aria-hidden="true" tabindex="-1"></a>  model2,                 <span class="co">#from model 2</span></span>
-<span id="cb19-3"><a href="#cb19-3" aria-hidden="true" tabindex="-1"></a>  <span class="at">terms =</span> <span class="fu">c</span>(<span class="st">"edge_distance [0,900]"</span>, <span class="st">"season"</span>) <span class="co">#at 0 distance and 900 distance</span></span>
-<span id="cb19-4"><a href="#cb19-4" aria-hidden="true" tabindex="-1"></a>)</span>
-<span id="cb19-5"><a href="#cb19-5" aria-hidden="true" tabindex="-1"></a><span class="fu">print</span>(sp_preds_j) <span class="co"># show output on render</span></span></code><button title="Copy to Clipboard" class="code-copy-button"><i class="bi"></i></button></pre></div>
+<div class="sourceCode cell-code" id="cb15"><pre class="sourceCode r code-with-copy"><code class="sourceCode r"><span id="cb15-1"><a href="#cb15-1" aria-hidden="true" tabindex="-1"></a>sp_preds_j <span class="ot">&lt;-</span> <span class="fu">ggpredict</span>(  <span class="co">#run predicted values</span></span>
+<span id="cb15-2"><a href="#cb15-2" aria-hidden="true" tabindex="-1"></a>  model2,                 <span class="co">#from model 2</span></span>
+<span id="cb15-3"><a href="#cb15-3" aria-hidden="true" tabindex="-1"></a>  <span class="at">terms =</span> <span class="fu">c</span>(<span class="st">"edge_distance [0,900]"</span>, <span class="st">"season"</span>) <span class="co">#at 0 distance and 900 distance</span></span>
+<span id="cb15-4"><a href="#cb15-4" aria-hidden="true" tabindex="-1"></a>)</span>
+<span id="cb15-5"><a href="#cb15-5" aria-hidden="true" tabindex="-1"></a><span class="fu">print</span>(sp_preds_j) <span class="co"># show output on render</span></span></code><button title="Copy to Clipboard" class="code-copy-button"><i class="bi"></i></button></pre></div>
 <div class="cell-output cell-output-stdout">
 <pre><code># Predicted probabilities of sp
 
